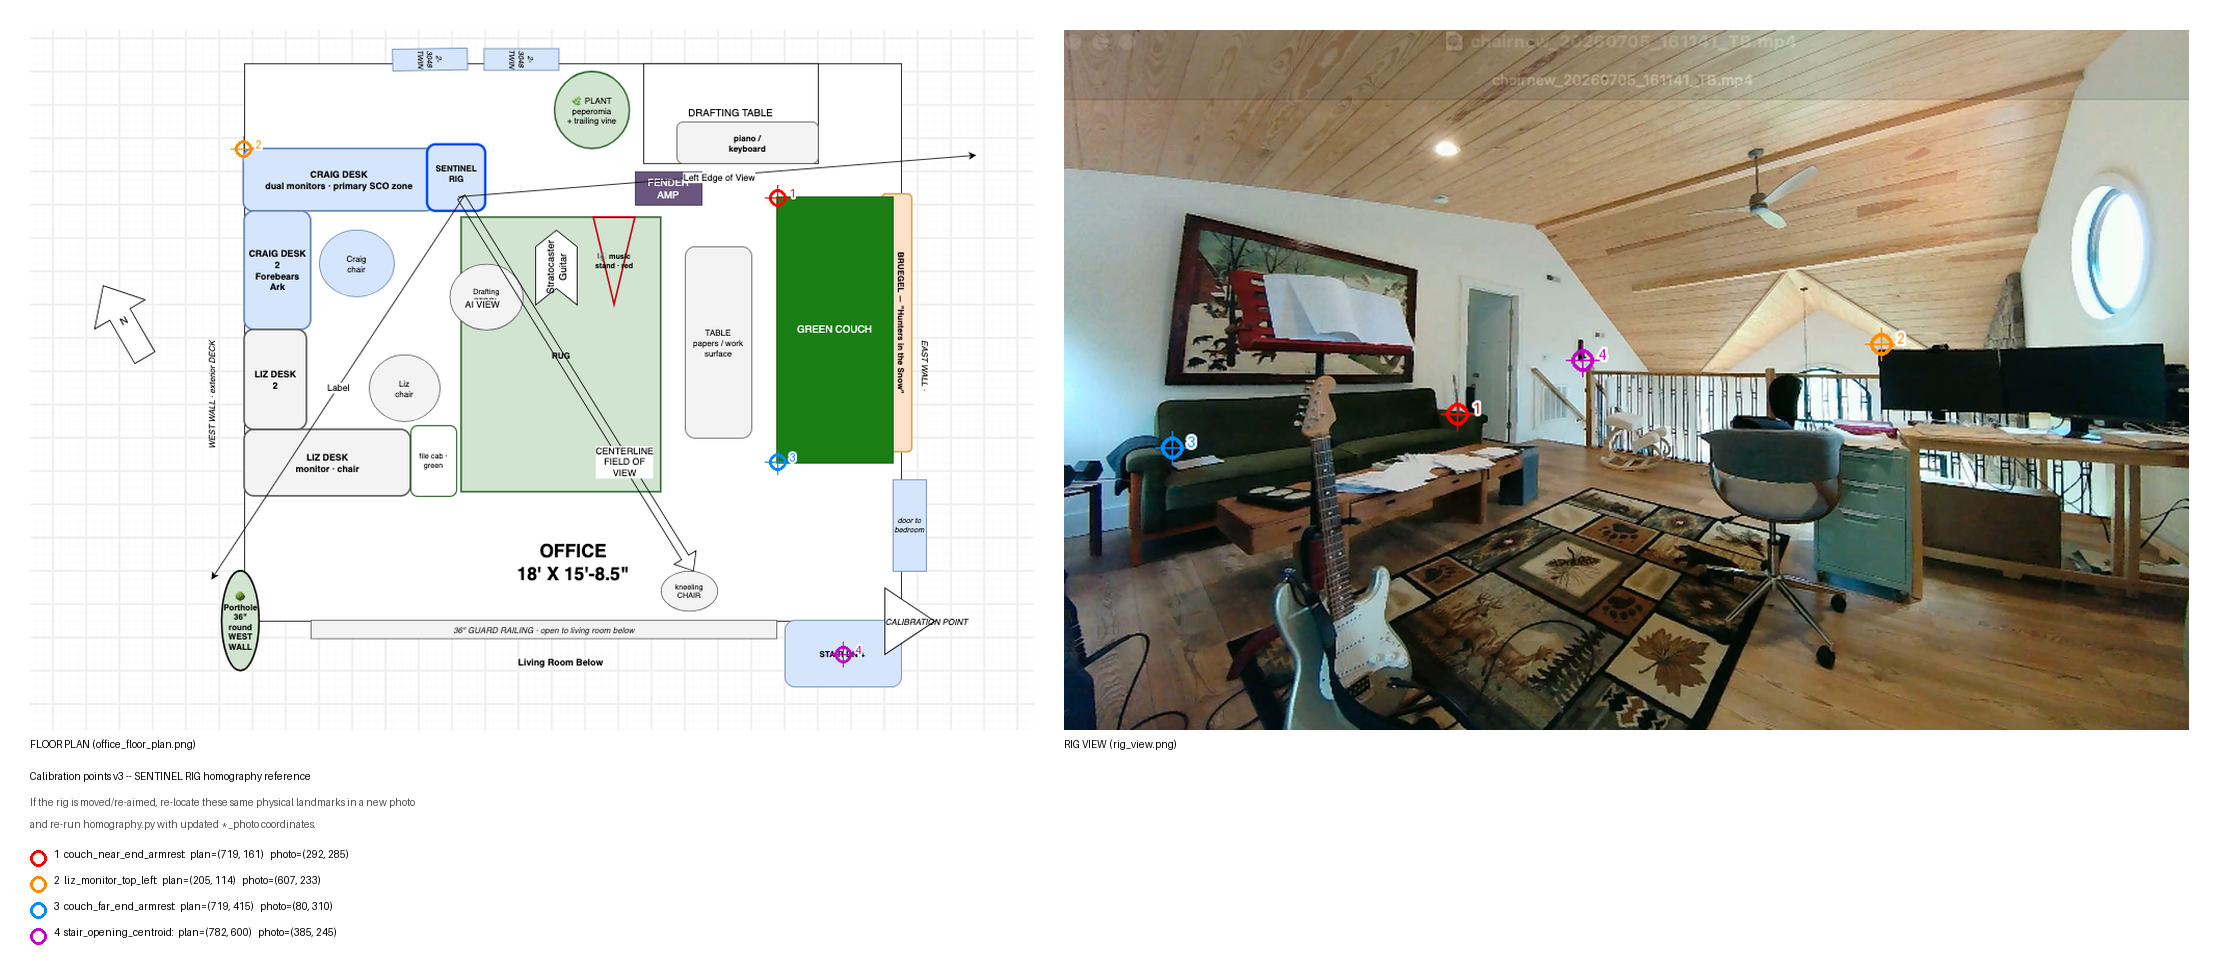
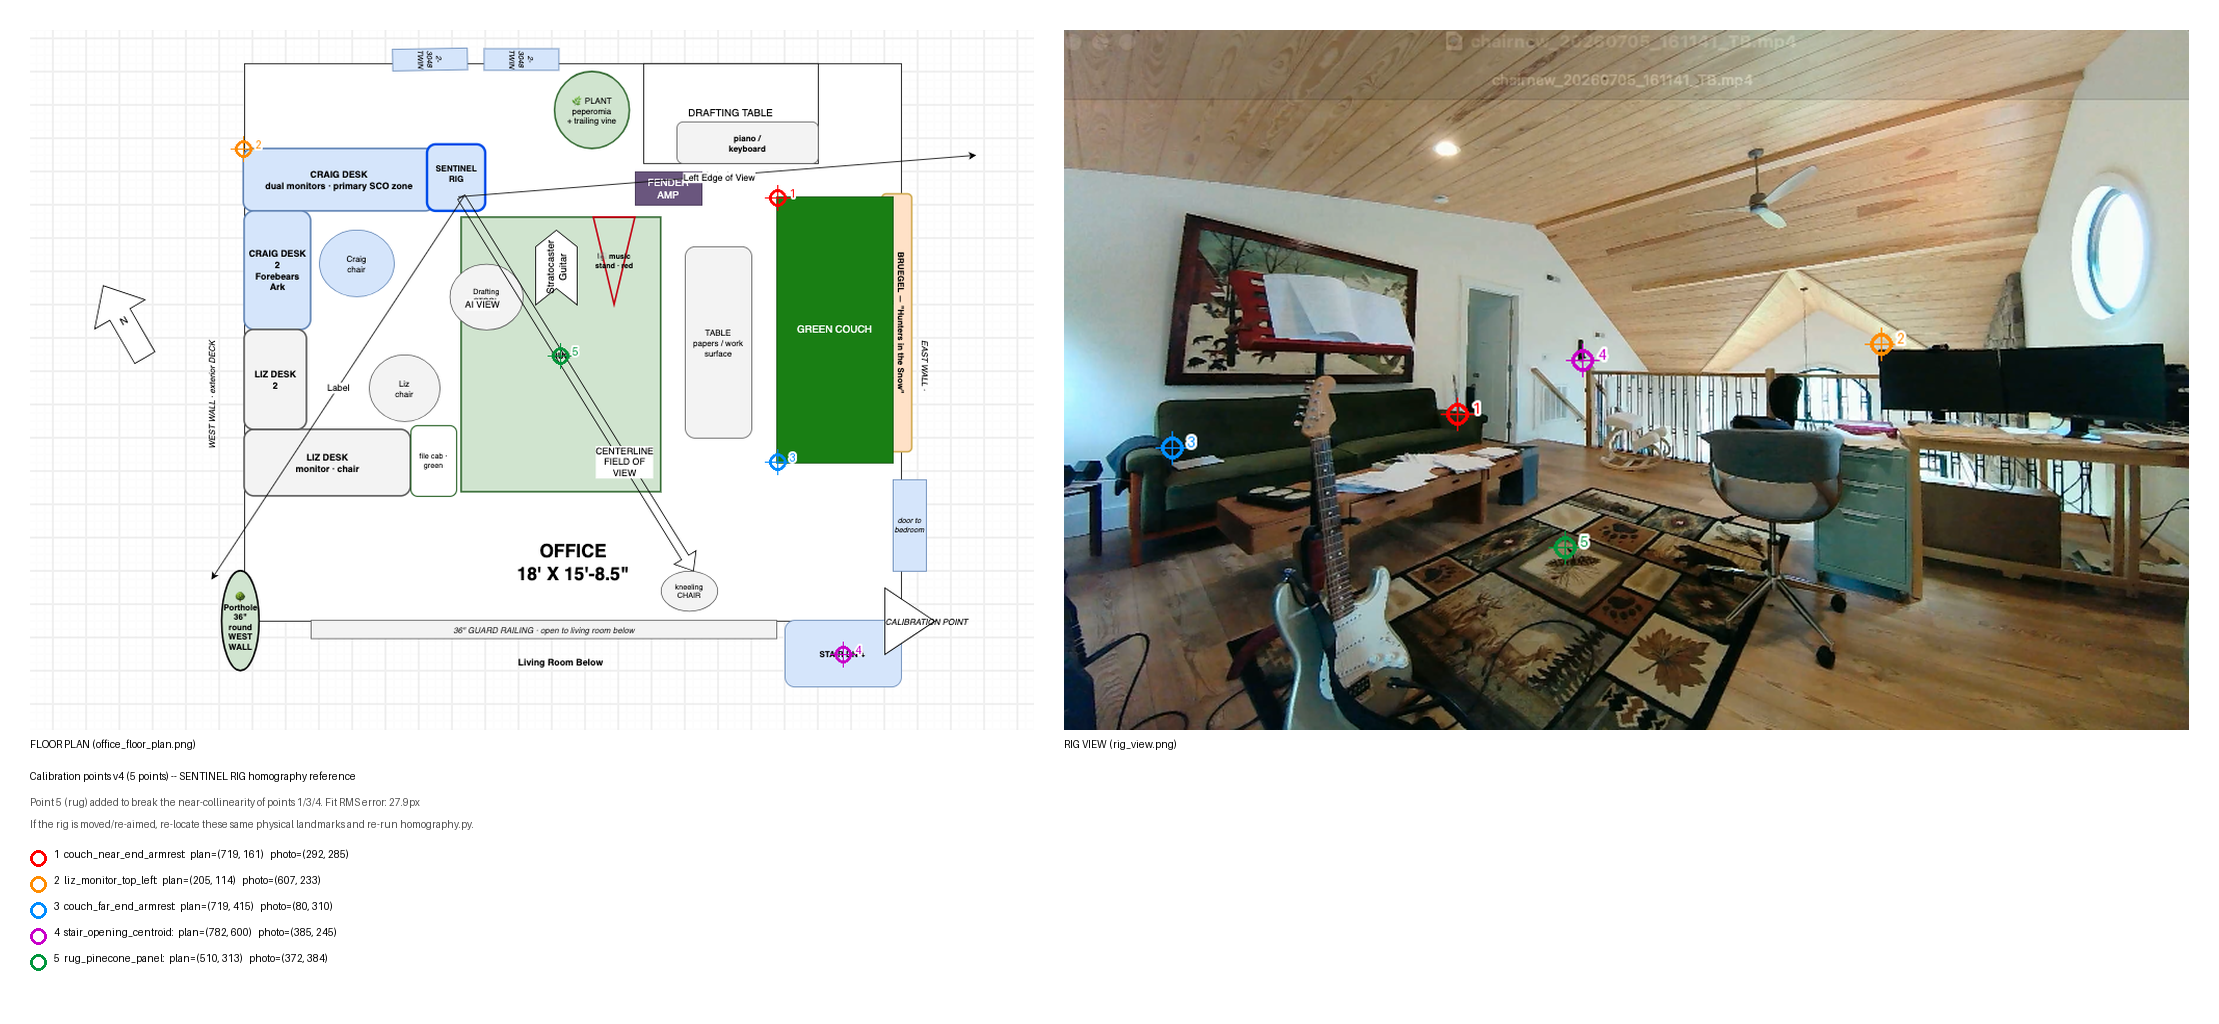
Add 5th calibration point (rug) to fix homography collinearity
Points 1/3/4 (couch ends, stairwell) were near-collinear in the floor
plan, causing the 4-point homography to collapse unrelated landmarks
onto nearly the same photo location. Adding the rug's pinecone panel
as a 5th point off that line fixes the conditioning, but surfaces a
real 27.9px residual -- likely because the fit points aren't all at
the same height (couch/monitor vs. floor-level stairwell/rug).
Documented in FINDINGS.md.

diff --git a/calibration/homography.py b/calibration/homography.py
@@ -8,12 +8,20 @@ correspondences = {
     "liz_monitor_top_left":    ((205, 114), (607, 233)),
     "couch_far_end_armrest":   ((719, 415), (80, 310)),
     "stair_opening_centroid":  ((782, 600), (385, 245)),
+    "rug_pinecone_panel":      ((510, 313), (372, 384)),
 }
 
 # liz_monitor_top_left uses the CRAIG DESK box's top-left corner in the
 # floor plan as a proxy -- the plan doesn't draw individual monitors, only
 # the desk footprint, so this is an approximation of where the left
 # monitor sits.
+#
+# rug_pinecone_panel uses the plan's "RUG" text label as a proxy for the
+# plan-side point -- the plan doesn't draw the rug's outline either, only
+# a text label placed somewhere on/near it. This 5th point was added
+# specifically to break the near-collinearity of the other 4 points
+# (see FINDINGS.md), since it sits at plan x=510, well off the x~719-782
+# line the other points cluster around.
 
 # out-of-plane points, NOT used in the fit (wall-height features) -- for
 # sanity-checking only, expected to reproject poorly since homography
@@ -75,7 +83,7 @@ reproj = apply_h(H, plan_pts)
 errs = np.linalg.norm(reproj - photo_pts, axis=1)
 for name, pred, actual, err in zip(correspondences.keys(), reproj, photo_pts, errs):
     print(f"  {name:28s} predicted={pred.round(1)} actual={actual} err={err:.2f}px")
-print(f"  RMS error: {np.sqrt((errs**2).mean()):.3f}px  (expected ~0, exact 4-pt fit)")
+print(f"  RMS error: {np.sqrt((errs**2).mean()):.3f}px")
 
 print()
 print("Out-of-plane validation point (porthole, on wall not floor):")
@@ -84,5 +92,7 @@ for name, (plan_xy, _) in validation_points.items():
     print(f"  {name}: plan={plan_xy} -> predicted photo={pred.round(1)}"
           f"  (visually, porthole is at ~(700,110) in photo -- large mismatch expected, confirms plane-only validity)")
 
-np.save("/Users/elizabethward/Claude/spatial-query-rig/rig/analysis/H_plan_to_photo.npy", H)
-np.save("/Users/elizabethward/Claude/spatial-query-rig/rig/analysis/H_photo_to_plan.npy", Hinv)
+import os
+_here = os.path.dirname(os.path.abspath(__file__))
+np.save(os.path.join(_here, "H_plan_to_photo.npy"), H)
+np.save(os.path.join(_here, "H_photo_to_plan.npy"), Hinv)

diff --git a/calibration/FINDINGS.md b/calibration/FINDINGS.md
@@ -14,7 +14,7 @@ between the two.
   calibration points marked, for re-anchoring after the rig moves.
 - `degeneracy_check.png` -- diagnostic image, see "Known issue" below.
 
-## Correspondences used (v3, current)
+## Correspondences used (v4, current -- 5 points)
 
 | # | Landmark | Floor plan (px) | Photo (px) |
 |---|---|---|---|
@@ -22,33 +22,49 @@ between the two.
 | 2 | Left monitor top-left corner (proxy: CRAIG DESK box top-left, plan doesn't draw individual monitors) | (205, 114) | (607, 233) |
 | 3 | Couch far-end armrest, front-top corner | (719, 415) | (80, 310) |
 | 4 | Stairwell opening centroid | (782, 600) | (385, 245) |
+| 5 | Rug pinecone panel, center (proxy: plan's "RUG" text label, plan doesn't draw the rug outline) | (510, 313) | (372, 384) |
 
 Both couch points intentionally reference the *armrest* (not the floor
 corner) since the floor corners are occluded by a coffee table/guitar in
 the reference photo. This means the fit is anchored slightly above the
 true floor plane (~2ft), not on it.
 
-## Known issue: fit is poorly conditioned
+## History: v3 collinearity issue (resolved) and v4 accuracy issue (open)
 
-`degeneracy_check.png` projects six other known plan landmarks (both
-couch-side chairs, the file cabinet, the kneeling chair, both guard-rail
-ends) through this homography as an out-of-sample check. They all
-collapse onto nearly the same small region of the photo
-(~x=520-630, y=230-250) regardless of how far apart they actually are in
-the room -- a sign of a near-degenerate fit.
+**v3 (4 points, points 1-4 only):** exact fit, 0px residual, but an
+out-of-sample check (projecting other known plan landmarks through H)
+showed six unrelated landmarks collapsing onto nearly the same tiny
+region of the photo. Cause: 3 of the 4 points (couch near-end, couch
+far-end, stairwell) sat close to the same vertical line in the floor
+plan (x ~ 719-782) -- close to the textbook degenerate configuration for
+a 4-point homography.
 
-Cause: 3 of the 4 correspondence points (couch near-end, couch far-end,
-stairwell) sit close to the same vertical line in the floor plan
-(x ~ 719-782). Three near-collinear points among four is close to the
-textbook degenerate configuration for a 4-point homography: technically
-invertible, but numerically unstable everywhere except close to that
-line.
+**v4 (5 points, current):** point 5 (rug) was added specifically off
+that line (plan x=510) to break the collinearity. This worked --
+`degeneracy_check.png` (regenerated for v4) shows the same six
+out-of-sample landmarks now spread out across the photo instead of
+collapsing to one spot.
 
-**Practical takeaway:** this H is only trustworthy near the couch and
-stairwell/monitor area of the photo. It should not be trusted for
-mapping points elsewhere in the room (center rug, chairs, file cabinet)
-until a 5th correspondence point is added somewhere off that line --
-e.g. the rug, or a central object -- to stabilize the fit.
+However, fixing conditioning surfaced a second, previously-hidden
+problem: the fit is now overdetermined (5 points, 4 minimum) and has a
+real residual of **27.9px RMS** (see `homography.py` output), and the
+out-of-sample landmarks still land in visibly wrong places (clustered
+near the railing rather than near the actual chairs/desk they represent).
+
+Likely cause: the 5 correspondence points are not actually coplanar in
+the real room. Points 1-2 (couch armrest, monitor) sit ~2.5-4ft above
+the floor; points 4-5 (stairwell, rug) are at floor level. A homography
+is only exact for points on a single plane -- mixing heights biases the
+fit toward an ill-defined compromise plane that doesn't match any of
+them well.
+
+**Practical takeaway:** v4 is better-conditioned than v3 (no more
+collapse-to-a-point failure), but its absolute accuracy off the 5 fit
+points is still unverified and likely poor given the height-mixing
+problem. Next step, if better accuracy is needed: re-pick correspondence
+points that are all genuinely at the same height (e.g. all floor-level,
+using visible floor-plane corners only), rather than mixing furniture-top
+and floor-level landmarks.
 
 ## Re-calibrating after the rig moves
 
